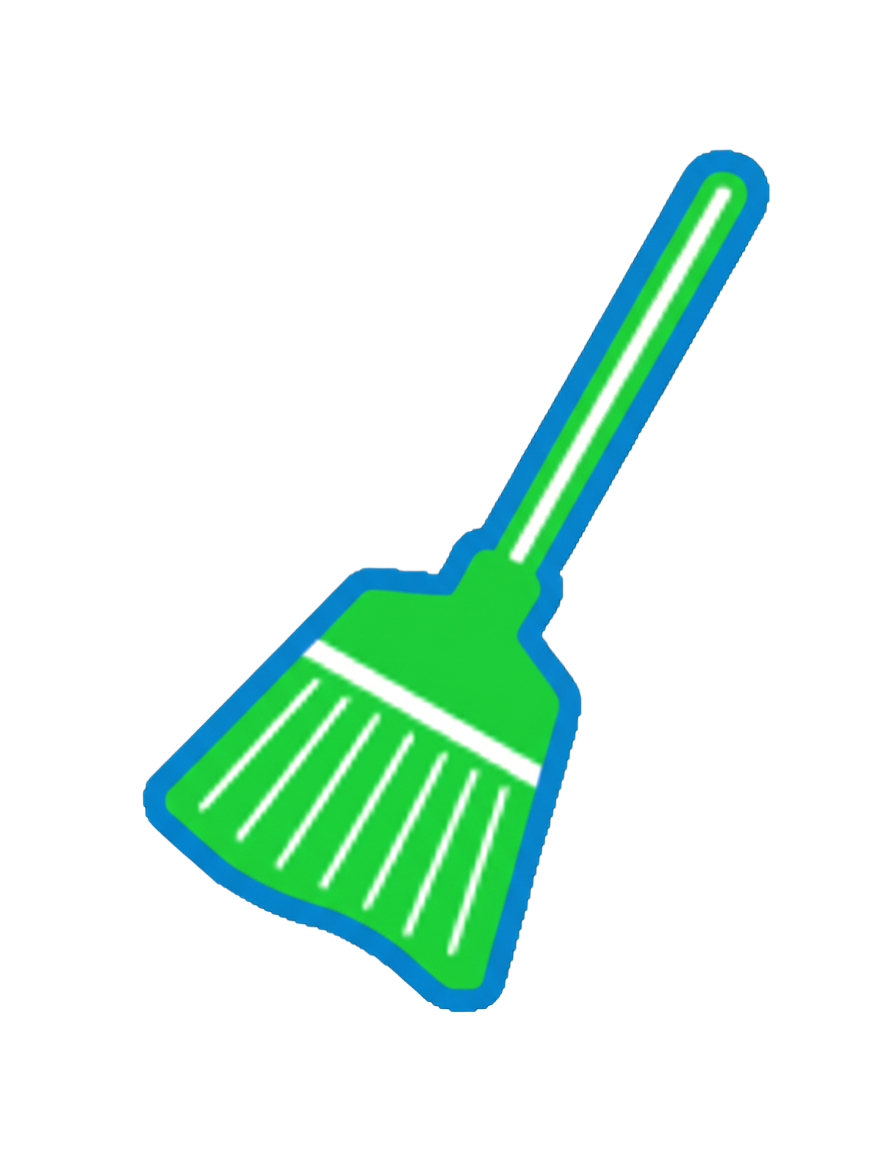
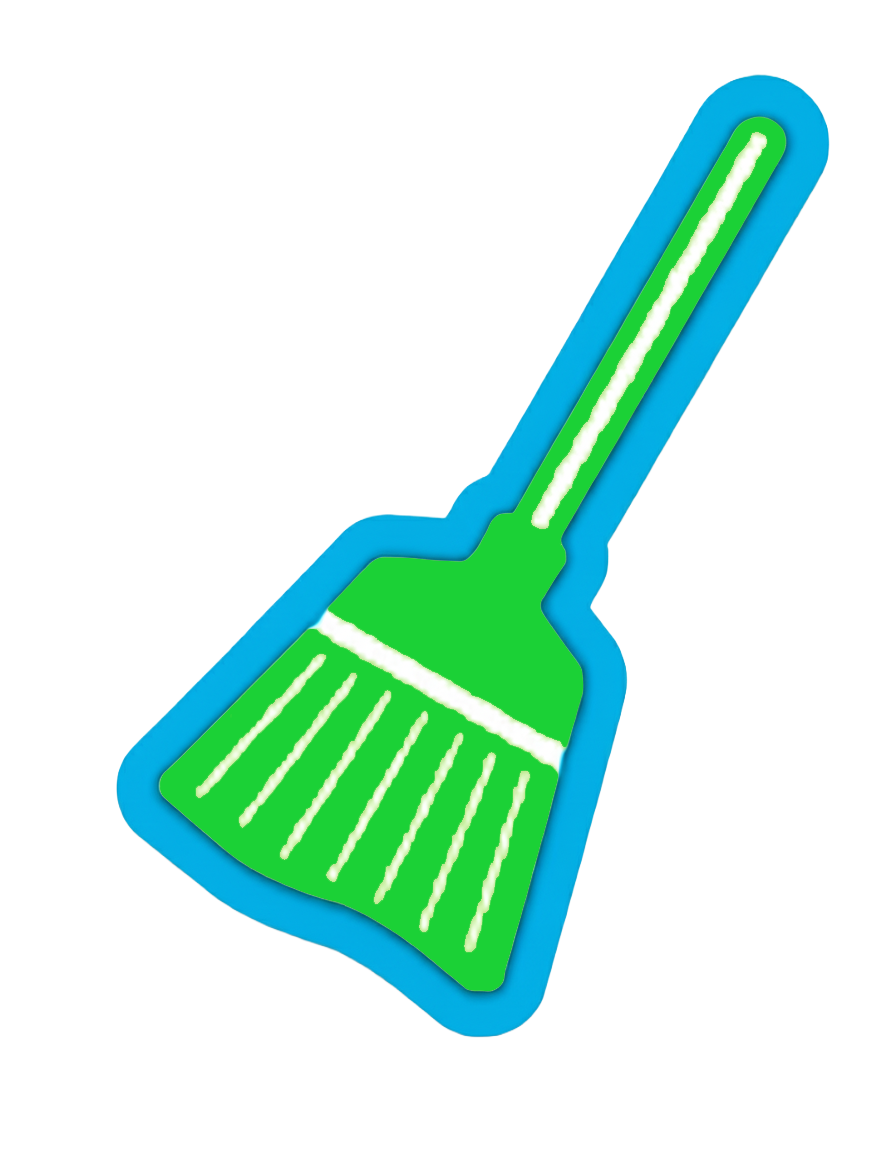
自分のポストマーカーの縁取り

Changed region(s): [[0.125, 0.0625, 0.9375, 0.9062]]

diff --git a/frontend/src/View/clean/compornents/PostMarker.tsx b/frontend/src/View/clean/compornents/PostMarker.tsx
@@ -7,8 +7,8 @@ const PostMarker = ({ post, onPress, userId }) => {
   if (post.user_id === userId) {
     imageSource =
       post.status === "resolved"
-        ? require("../assets/image/green.png")
-        : require("../assets/image/red.png");
+        ? require("../assets/image/broom-self-green.png")
+        : require("../assets/image/broom-self-red.png");
   } else {
     imageSource =
       post.status === "resolved"
